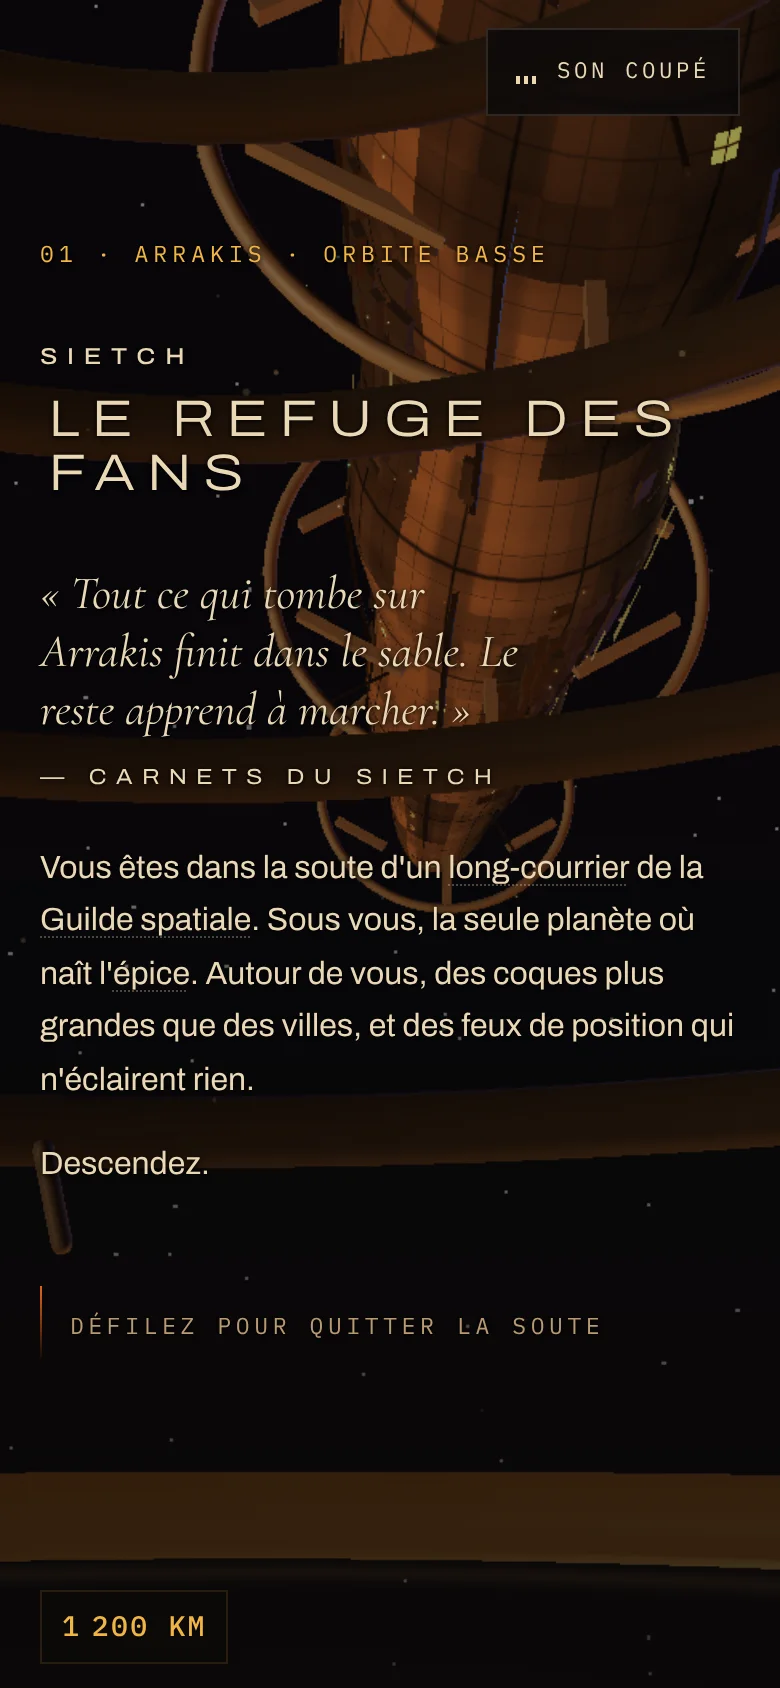
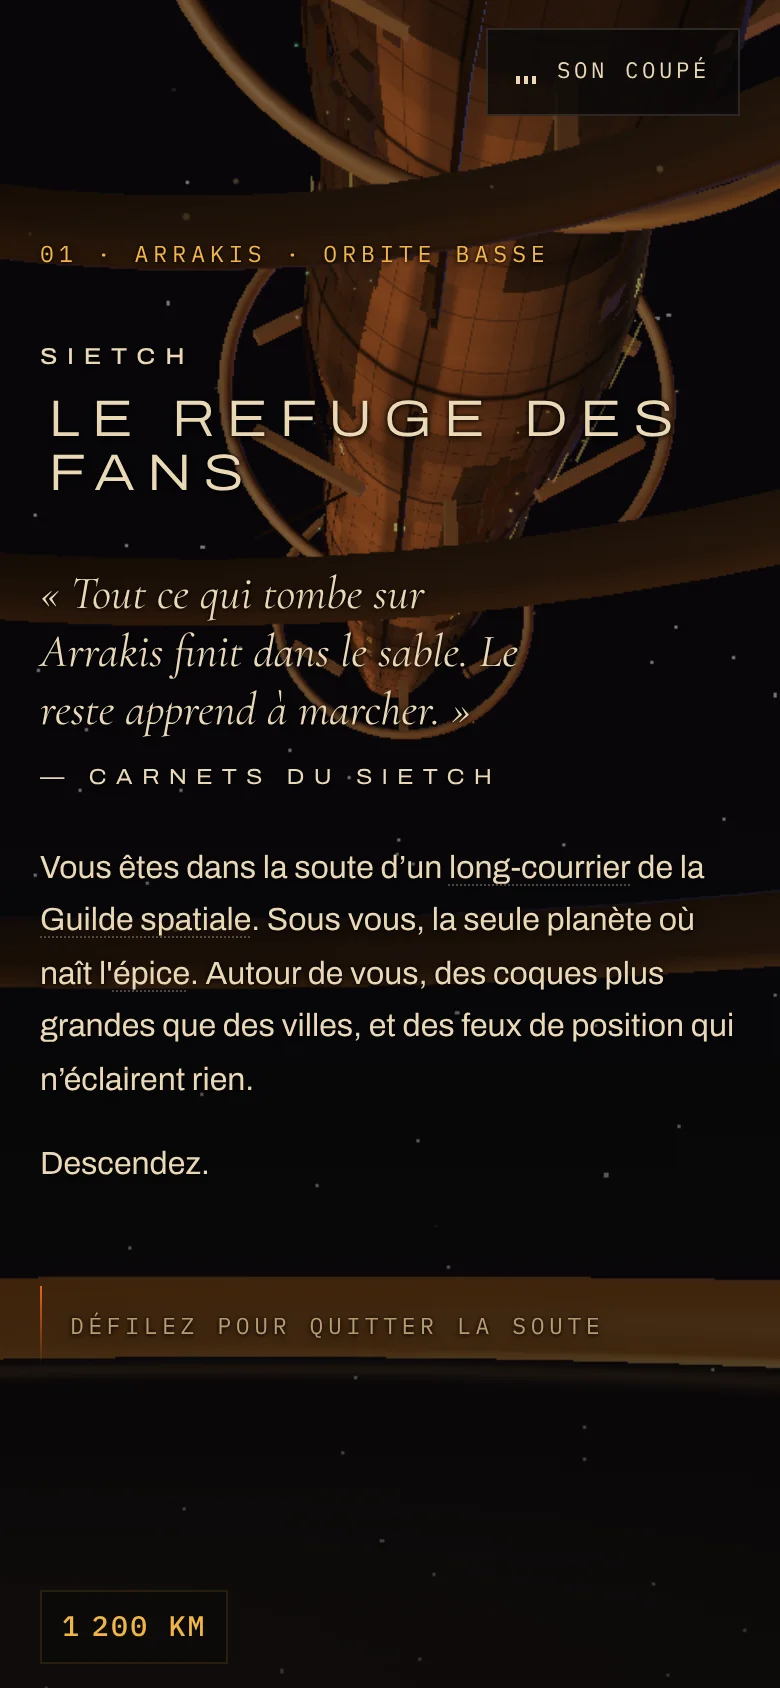
Long-courrier : en portrait, le regard remonte moins pendant la sortie de soute (le fuseau reste au-dessus de l'épigraphe) ; captures mobiles 18 % et 35 % refaites
Claude-Session: https://claude.ai/code/session_01TmTFqFyVjB4u53bqWWJJJg

diff --git a/src/world/createWorld.ts b/src/world/createWorld.ts
@@ -575,7 +575,9 @@ export function createWorld(canvas: HTMLCanvasElement, { tier }: WorldOptions): 
       if (portrait) tmp.set(x0 + 9, yStart - 29, 24 - 165); else tmp.set(x0 - 69, yStart - 8, 24 - 156);
       // En sortant, le regard remonte vers la bouche éclairée et le fuseau qu'on quitte (dès le début de la sortie,
       // pour ne jamais le perdre de vue), puis bascule vers la planète.
-      tmp.lerp(wantTarget.set(x0 + (portrait ? 8 : 24), 30, -100), smoothstep(0, 0.9, exitT) * 0.9);
+      // Portrait : le regard remonte moins (cible plus basse et plus à droite) pour que le fuseau reste dans la moitié
+      // supérieure de l'écran pendant la sortie, au-dessus de l'épigraphe et du paragraphe.
+      tmp.lerp(wantTarget.set(x0 + (portrait ? 16 : 24), portrait ? -4 : 30, -100), smoothstep(0, 0.9, exitT) * 0.9);
       tmp.lerp(wantTarget.set(0, -600, -200), look);
       wantTarget.copy(tmp);
       // Planète : loin et basse au début (plus basse en portrait : sous le paragraphe), elle monte pendant l'entrée.
